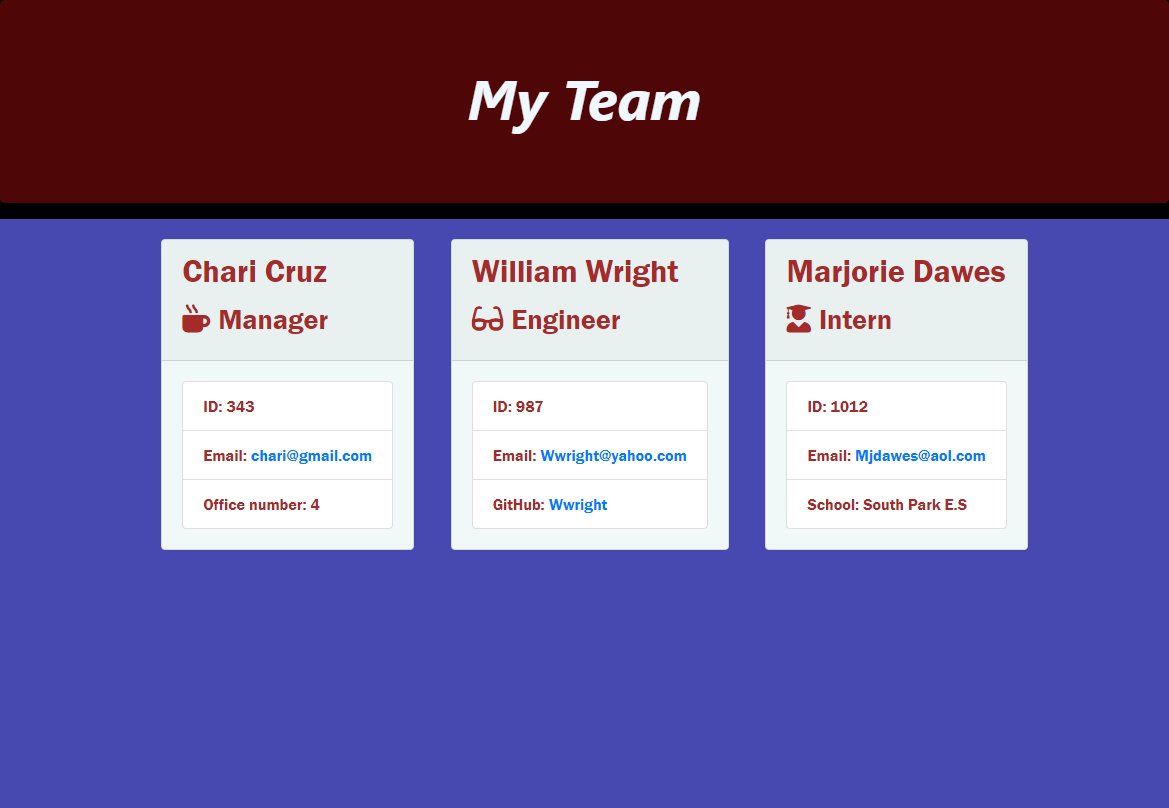
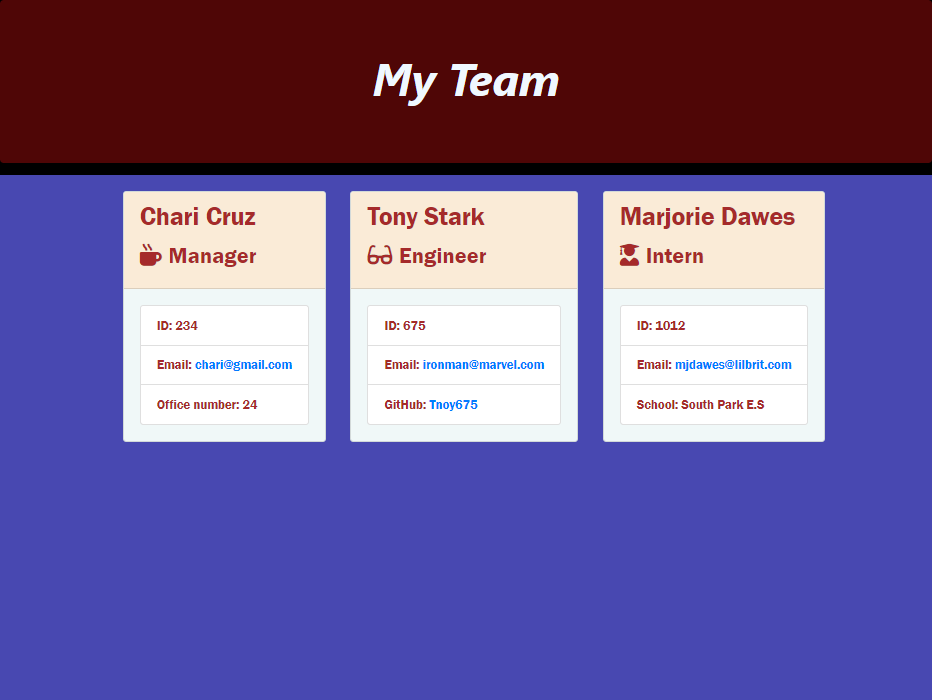
further update readme.md file.

Changed region(s): [[0.0, 0.21, 1.0, 0.69], [0.4045, 0.09, 0.6223, 0.18]]

diff --git a/output/team.html b/output/team.html
@@ -32,23 +32,23 @@
         </div>
         <div class="card-body">
             <ul class="list-group">
-                <li class="list-group-item">ID: 343</li>
+                <li class="list-group-item">ID: 234</li>
                 <li class="list-group-item">Email: <a href="mailto:chari@gmail.com">chari@gmail.com</a></li>
-                <li class="list-group-item">Office number: 4</li>
+                <li class="list-group-item">Office number: 24</li>
             </ul>
         </div>
     </div>
         
         <div class="card employee-card">
     <div class="card-header">
-        <h2 class="card-title">William Wright</h2>
+        <h2 class="card-title">Tony Stark</h2>
         <h3 class="card-title"><i class="fas fa-glasses mr-2"></i>Engineer</h3>
     </div>
     <div class="card-body">
         <ul class="list-group">
-            <li class="list-group-item">ID: 987</li>
-            <li class="list-group-item">Email: <a href="mailto:Wwright@yahoo.com">Wwright@yahoo.com</a></li>
-            <li class="list-group-item">GitHub: <a href="https://github.com/Wwright" target="_blank" rel="noopener noreferrer">Wwright</a></li>
+            <li class="list-group-item">ID: 675</li>
+            <li class="list-group-item">Email: <a href="mailto:ironman@marvel.com">ironman@marvel.com</a></li>
+            <li class="list-group-item">GitHub: <a href="https://github.com/Tnoy675" target="_blank" rel="noopener noreferrer">Tnoy675</a></li>
         </ul>
     </div>
 </div>
@@ -61,7 +61,7 @@
     <div class="card-body">
         <ul class="list-group">
             <li class="list-group-item">ID: 1012</li>
-            <li class="list-group-item">Email: <a href="mailto:Mjdawes@aol.com">Mjdawes@aol.com</a></li>
+            <li class="list-group-item">Email: <a href="mailto:mjdawes@lilbrit.com">mjdawes@lilbrit.com</a></li>
             <li class="list-group-item">School: South Park E.S</li>
         </ul>
     </div>

diff --git a/index.js b/index.js
@@ -117,7 +117,7 @@ const rolePromptMenu = async () =>
         endProgram();
       }
     });
-
+//engineer prompt
 const engineerPrompt = async () =>
   await inquirer
     .prompt([
@@ -176,7 +176,7 @@ const engineerPrompt = async () =>
           if (github) {
             return true;
           } else {
-            console.log("Please enter your GitHub username.");
+            console.log("\nPlease enter your GitHub username.");
             return false;
           }
         },
@@ -194,7 +194,7 @@ const engineerPrompt = async () =>
       );
       rolePromptMenu();
     });
-
+//intern prompt
 const internPrompt = async () =>
   await inquirer
     .prompt([
@@ -253,7 +253,7 @@ const internPrompt = async () =>
           if (schoolName) {
             return true;
           } else {
-            console.log("Please enter your school name.");
+            console.log("\nPlease enter your school name.");
             return false;
           }
         },

diff --git a/README.md b/README.md
@@ -20,8 +20,8 @@ This is an App for generating team profile with node.js, inquirer.js and jest pa
 ## Installation
 
 - The software package needed to install are [package.json](https://docs.npmjs.com/cli/v9/configuring-npm/package-json), [Inquirer package](https://www.npmjs.com/package/inquirer) and [Jest package](https://www.npmjs.com/package/jest).
-- In the command line type `npm init -y` to install `package.json`, `npm i inquirer` to install inquirer.js and `npm i` to install jest package.
-- Open the package.json file in the VScode and replace the value of the `"test":` to `"test": "jest --verbose"` an image is provided below;
+- In the command line type _`npm init -y`_ to install _`package.json`_, _`npm i inquirer`_ to install inquirer.js and _`npm i`_ to install jest package.
+- Open the package.json file in the VScode and replace the value of the _`"test":`_ to _`"test": "jest --verbose"`_ an image is provided below;
 
 ![jest --verbose](images/installation-test.png)
 
@@ -33,7 +33,7 @@ This is an App for generating team profile with node.js, inquirer.js and jest pa
 
 ## Usage
 
-In the command line type node index.js, press ENTER to run the team profile generator questionaire.
+In the command line type _`node index.js`_ and press ENTER to run the team profile generator questionaire.
 
 ## Resource
 
@@ -47,11 +47,11 @@ In the command line type node index.js, press ENTER to run the team profile gene
 
 ## License
 
-This project is covered by **MIT**.
+This project is covered by **_MIT_**.
 
 ## Test
 
-In the command line type `node index.js` to see if the application is working without any error and `npm run test` to run the unit test.
+In the command line type _`node index.js`_ to see if the application is working without any error and _`npm run test`_ to run the unit test.
 
 #### Below is the image of the App after running the test.
 
